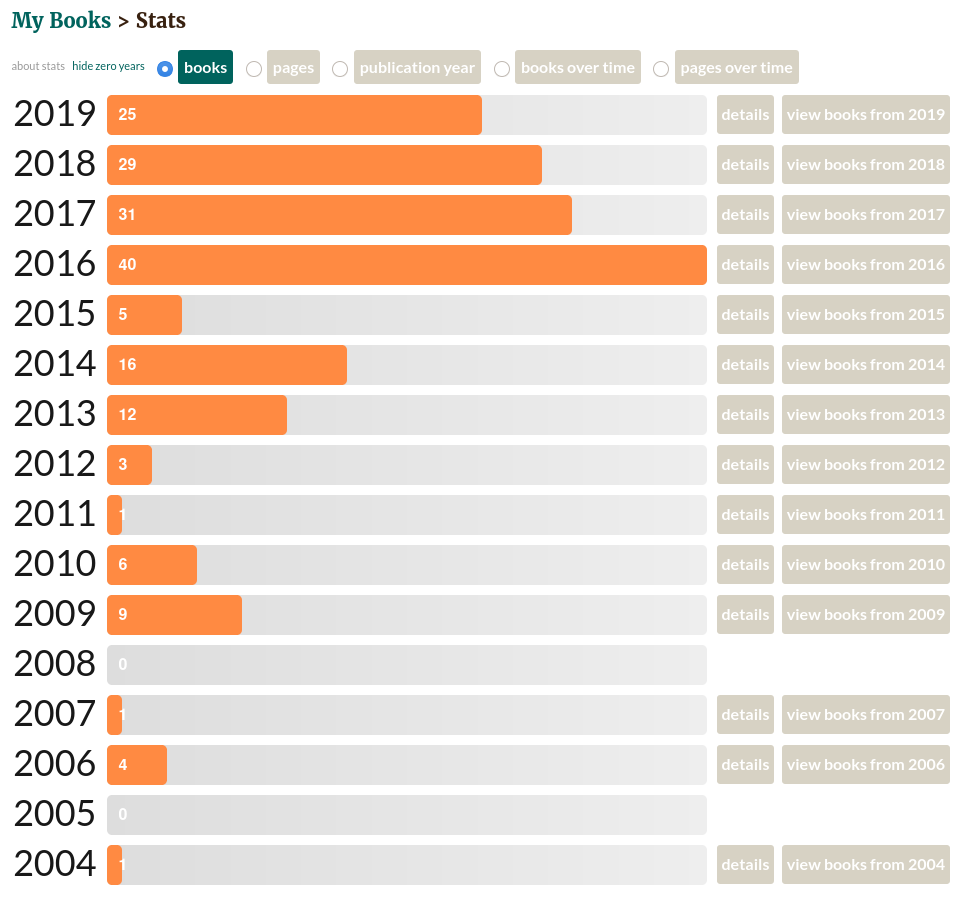
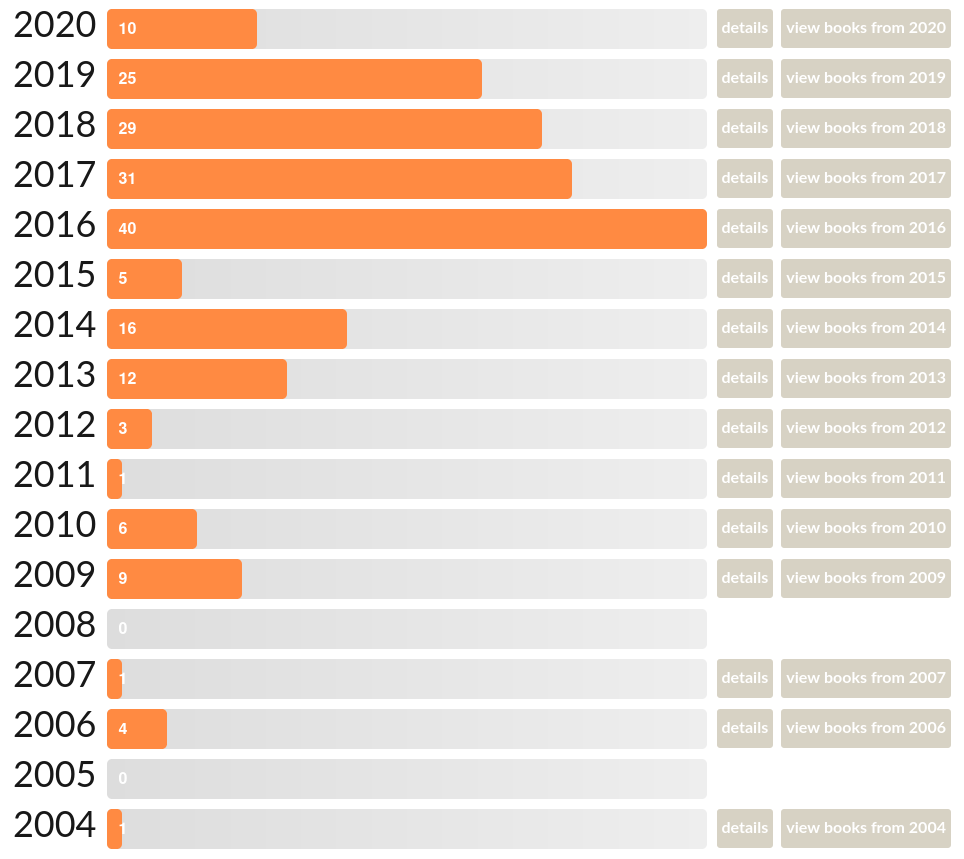
Write the books section for the 2020 review

diff --git a/content/posts/2020.md b/content/posts/2020.md
@@ -13,92 +13,76 @@ tags = [
 
 If you're following my blog, you know that I sometimes mentioned things were too
 hard and I couldn't sit down and write. Looking back now, I have a good laugh
-for my past self. 2020 was a complicated year. Let's go for its metrics.
+for my past self. ☺
+
+I can say for sure that 2020 was a complicated year and **a lot** of things
+changeg in my life. The biggest change is that I'm now a father of twins. I
+still remember when a colleague mentioned: "I'm curious to see how your metrics
+post will be next year". Well, I'm curious too, so let's see.
 
 ## Average day
 
-Let's start with what an average day is to me according to [Exist.io](https://exist.io/?referred_by=pothix):
+I'd like to start with what an average day is to me according to
+[Exist.io](https://exist.io/?referred_by=pothix) because it feels like a TL;DR
+of this post:
 
 [![A list of data showing how a day works. Starts with a sleep of 7 hours and a half, 3 hours and a half of productive time, 11 tracks, 1 tweet, 2 hours of distracting time, almost 9 thousand steps, an average of 4 for my rating and going to sleep at 11h30](/images/stats/2020/yir/exist-average-day.png "My day according to Exist")](/images/stats/2020/yir/exist-average-day.png "")
 
-This is almost a TL;DR of this post, but there's a lot of details missing here and we will cover them topic by topic. 😉
+There's one thing I'm certain about this: I'm not weighting 78.1kg. 😂 I
+probably forgot to add my weight to mi-fit this year because the gym is not a
+reality anymore.
 
 ## Books
 
 [![Year in books from Goodreads. Shows "On the shortness of life" as the shortest book and "Homo Deus" as the longest one. "The power of habit" is the most popular book. I read 6291 pages across 25 books this year](/images/stats/2020/yir/goodreads-year-in-books-logo.png "My year in books by Goodreads")](https://www.goodreads.com/pothix "")
 
-Although I did not meet my goal of 30 books read this year, I still consider
-the 25 books read an achievement.
+I had a much smaller goal this year. Instead of setting ~30 books, I just set 10
+because I was sure my year would be totally different than anything I was used
+to. There was also the feeling that having goals were influencing my choice of
+books to read, so I wanted to try something different.
 
-At some point, I realized I was choosing my books to meet the goal. When picking
-a new book from my wishlist, I was choosing the smallest ones first, not
-necessarily the ones I wanted to read the most. It's not that bad, as I was
-still choosing books from my library and wish list, but I don't want to have
-such influence in the titles I pick.
+I'm glad to meet the modest mark of 10 books this year. It was not stressful and
+quite easy to reach the goal. I will probably do the same for 2021, if I read
+more than that (I don't think it's going to happen), it would be better than
+having a bigger goal and not be able to accomplish it.
 
-25 books is a great mark IMO. You can see my 2020 Goodreads challenge
-[here](https://www.goodreads.com/challenges/8863-2020-reading-challenge). :)
+You can see my 2020 Goodreads challenge
+[here](https://www.goodreads.com/challenges/11621-2020-reading-challenge). :)
 
-I'm still using [Google keep](https://keep.google.com) to take notes of all the
-books I read and I'm posting Goodreads reviews for them based on these notes.
-You can see the reviews for 2020 by clicking each book [on my Goodreads
-page](https://www.goodreads.com/user_challenges/14901302).
+I used [Google keep](https://keep.google.com) to take notes of all the books I
+read until the end of 2020 and I'm now using [Roam
+research](https://roamresearch.com) for that. All my notes are being
+consolidated there. Every time I finish a book, I review my notes and post them
+along with a review on Goodreads and on this blog. The plan is to migrate all my
+reviews here so I can own my content again.
 
-Here are the books from this year's list that I really recommend
-reading, with links to my review:
-
-* [Why We Sleep](https://www.goodreads.com/review/show/2435182291)
-* [Homo Deus](https://www.goodreads.com/review/show/2055385130)
-* [The Power of Habit](https://www.goodreads.com/review/show/1559101465) (second time I read this one)
-* [Atomic Habits](https://www.goodreads.com/review/show/2606595802)
-* [Deep Work: Rules for Focused Success in a Distracted World](https://www.goodreads.com/review/show/1601212243)
-
-There are also some from 2018 since I did not post my Year in review last
-year:
-
-* [When](https://www.goodreads.com/review/show/2254843906)
-* [Sapiens](https://www.goodreads.com/review/show/2055385224)
-* [A Guide to the Good Life](https://www.goodreads.com/review/show/2355647662)
-* [Principles](https://www.goodreads.com/review/show/2479523573)
-
-You can always look for my whole
-[list of books read in 2020](https://www.goodreads.com/review/list/38970458-willian-molinari?read_at=2020) and [2018](https://www.goodreads.com/review/list/38970458-willian-molinari?read_at=2018) on Goodreads.
+If you want to see the reviews I already migrated, check the
+[books](/tags/books) out. If you see I didn't migrate all the titles yet, you
+can always look for my whole [list of books read in
+2020](https://www.goodreads.com/review/list/38970458-willian-molinari?read_at=2020)
+on Goodreads.
 
 Here are some stats provided by Goodreads comparing all the books I
 have registered:
 
 [![A list by year with progress bars. The biggest one is from 2017, the second is 2018, and 2020 is the third one most filled](/images/stats/2020/yir/goodreads.png "List of books read by year")](https://www.goodreads.com/pothix "")
 
-I started [listening to audiobooks](/post/audiobooks/) in 2016 and we can
-clearly see how excited I was. 😅 I can see now that I'm reducing the number of
-books I'm reading every year, but I don't think I should be concerned about that.
-The number should not surpass the quality of books and how much I'm applying
-what I learn.
+I can see now that I'm reducing the number of books I'm reading every year, but
+I don't think I should be concerned about that. The number should not surpass
+the quality of books and how much I'm applying what I learn.
 
-Let's compare the books I read this year with last year:
+One of my concerns was related to the quality on my reviews. In 2018 I had a lot
+of 3 star reviews, so I tried to improve my picks in 2019 and got some
+improvements. Let's see how was 2020:
 
-[![The years of 2020, 2018, and 2017 and their book ratings by me](/images/stats/2020/yir/goodreads-details.png "Comparison between 2017, 2018, and 2020")](https://www.goodreads.com/pothix "")
+[![The years of 2020, 2019, and 2018 and their book ratings by me](/images/stats/2020/yir/goodreads-details.png "Comparison between 2018, 2019, and 2020")](https://www.goodreads.com/pothix "")
 
-I used the number of pages because it clearly shows that I even read more than
-2018, but not more individual books. I was not expecting that but it shows that
-I was trying to be less focused on the number of books.
+Things are much better! For the first time I have more 5 star reviews than 4
+stars! 🤩 This is one of the reasons why I love to have metrics, they help me
+realize what I've been doing and improve 💪.
 
-In 2017, I mentioned that I was disappointed with the number of 5 stars I gave.
-It was probably related to the fact that I was buying cheaper books and
-focusing on smaller ones as well. In 2018, I tried to fix that and it works.
-I gave **7 five stars reviews** in 2018 and **five** in 2020. It seems these
-metrics were useful after all. :)
-
-In 2018, I read 2 books from my "audible-deal" shelf and in 2020 I read none.
-From all the books I have on my "audible-deal", none of them were 5 stars. This
-is probably a bad sign. On the other hand, I found some great books there and I
-don't regret reading them
-([Spaceman](https://www.goodreads.com/review/show/1968545292), [Rendezvous with
-Rama](https://www.goodreads.com/review/show/2057742804), [What Doesn't Kill
-Us](https://www.goodreads.com/review/show/2055058923), etc.).
-
-I was not feeling so good about the number of books I read this year, but after
-writing this section I'm feeling much better. I'm happy with my results here. :)
+As it happened last year, but after writing this section I'm feeling even better
+about the number of books I read this year and their quality.
 
 ## Articles
 
